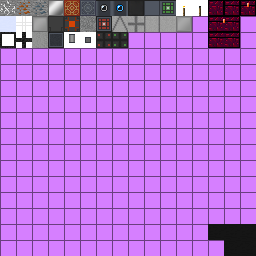
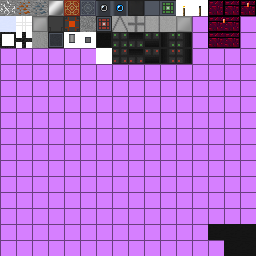
Retextured Air Locks.

Changed region(s): [[0.375, 0.125, 0.75, 0.25]]

diff --git a/src/minecraft/micdoodle8/mods/galacticraft/core/blocks/GCCoreBlockAirLockFrame.java b/src/minecraft/micdoodle8/mods/galacticraft/core/blocks/GCCoreBlockAirLockFrame.java
@@ -2,9 +2,12 @@ package micdoodle8.mods.galacticraft.core.blocks;
 
 import java.util.Random;
 
+import universalelectricity.core.vector.Vector3;
+
 import micdoodle8.mods.galacticraft.API.IConnectableToPipe;
 import micdoodle8.mods.galacticraft.core.tile.GCCoreTileEntityAirLock;
 import micdoodle8.mods.galacticraft.core.util.OxygenUtil;
+import net.minecraft.block.Block;
 import net.minecraft.block.material.Material;
 import net.minecraft.tileentity.TileEntity;
 import net.minecraft.world.IBlockAccess;
@@ -20,20 +23,171 @@ public class GCCoreBlockAirLockFrame extends GCCoreBlockAdvanced implements ICon
 		super(par1, par2, Material.rock);
 	}
 
-	@Override
-    @SideOnly(Side.CLIENT)
-    public int getBlockTexture(IBlockAccess par1IBlockAccess, int par2, int par3, int par4, int par5)
-    {
-		par1IBlockAccess.getBlockTileEntity(par2, par3, par4);
+//	@Override
+//    @SideOnly(Side.CLIENT)
+//    public int getBlockTexture(IBlockAccess par1IBlockAccess, int par2, int par3, int par4, int par5)
+//    {
+//		par1IBlockAccess.getBlockTileEntity(par2, par3, par4);
+//
+//		if (par1IBlockAccess.getBlockId(par2 - 1, par3, par4) == GCCoreBlocks.airLockSeal.blockID || par1IBlockAccess.getBlockId(par2 + 1, par3, par4) == GCCoreBlocks.airLockSeal.blockID || par1IBlockAccess.getBlockId(par2, par3 - 1, par4) == GCCoreBlocks.airLockSeal.blockID || par1IBlockAccess.getBlockId(par2, par3 + 1, par4) == GCCoreBlocks.airLockSeal.blockID || par1IBlockAccess.getBlockId(par2, par3, par4 - 1) == GCCoreBlocks.airLockSeal.blockID || par1IBlockAccess.getBlockId(par2, par3, par4 + 1) == GCCoreBlocks.airLockSeal.blockID)
+//		{
+//			return 39;
+//		}
+//		else
+//		{
+//			return 38;
+//		}
+//    }
 
-		if (par1IBlockAccess.getBlockId(par2 - 1, par3, par4) == GCCoreBlocks.airLockSeal.blockID || par1IBlockAccess.getBlockId(par2 + 1, par3, par4) == GCCoreBlocks.airLockSeal.blockID || par1IBlockAccess.getBlockId(par2, par3 - 1, par4) == GCCoreBlocks.airLockSeal.blockID || par1IBlockAccess.getBlockId(par2, par3 + 1, par4) == GCCoreBlocks.airLockSeal.blockID || par1IBlockAccess.getBlockId(par2, par3, par4 - 1) == GCCoreBlocks.airLockSeal.blockID || par1IBlockAccess.getBlockId(par2, par3, par4 + 1) == GCCoreBlocks.airLockSeal.blockID)
+    public int getBlockTexture(IBlockAccess par1IBlockAccess, int par2, int par3, int par4, int side)
+    {
+    	for(ForgeDirection orientation : ForgeDirection.values())
 		{
-			return 39;
+			if(orientation != ForgeDirection.UNKNOWN)
+			{
+				Vector3 vector = new Vector3(par2, par3, par4);
+				Vector3 blockVec = vector.clone().modifyPositionFromSide(orientation);
+				Block connection = Block.blocksList[blockVec.getBlockID(par1IBlockAccess)];
+			
+				if (connection != null && connection.equals(GCCoreBlocks.airLockSeal))
+				{
+					if (orientation.offsetY == -1)
+					{
+						if (side == 0)
+						{
+							return this.blockIndexInTexture + 1;
+						}
+						else if (side == 1)
+						{
+							return this.blockIndexInTexture;
+						}
+						else
+						{
+							return this.blockIndexInTexture + 2;
+						}
+					}
+					else if (orientation.offsetY == 1)
+					{
+						if (side == 0)
+						{
+							return this.blockIndexInTexture;
+						}
+						else if (side == 1)
+						{
+							return this.blockIndexInTexture + 1;
+						}
+						else
+						{
+							return this.blockIndexInTexture + 3;
+						}
+					}
+					else if (orientation.ordinal() == side)
+					{
+						if (side == 0)
+						{
+							return this.blockIndexInTexture;
+						}
+						else if (side == 1)
+						{
+							return this.blockIndexInTexture + 1;
+						}
+						else
+						{
+							return this.blockIndexInTexture + 3;
+						}
+					}
+					else if (orientation.getOpposite().ordinal() == side)
+					{
+						return this.blockIndexInTexture;
+					}
+
+					blockVec = vector.clone().add(new Vector3(orientation.offsetX, orientation.offsetY, orientation.offsetZ));
+					connection = Block.blocksList[blockVec.getBlockID(par1IBlockAccess)];
+					
+					if (connection != null && connection.equals(GCCoreBlocks.airLockSeal))
+					{
+						if (orientation.offsetX == 1)
+						{
+							if (side == 0)
+							{
+								return this.blockIndexInTexture + 4;
+							}
+							else if (side == 1)
+							{
+								return this.blockIndexInTexture + 4;
+							}
+							else if (side == 3)
+							{
+								return this.blockIndexInTexture + 4;
+							}
+							else if (side == 2)
+							{
+								return this.blockIndexInTexture + 5;
+							}
+						}
+						else if (orientation.offsetX == -1)
+						{
+							if (side == 0)
+							{
+								return this.blockIndexInTexture + 5;
+							}
+							else if (side == 1)
+							{
+								return this.blockIndexInTexture + 5;
+							}
+							else if (side == 3)
+							{
+								return this.blockIndexInTexture + 5;
+							}
+							else if (side == 2)
+							{
+								return this.blockIndexInTexture + 4;
+							}
+						}
+						else if (orientation.offsetZ == 1)
+						{
+							if (side == 0)
+							{
+								return this.blockIndexInTexture + 2;
+							}
+							else if (side == 1)
+							{
+								return this.blockIndexInTexture + 2;
+							}
+							else if (side == 4)
+							{
+								return this.blockIndexInTexture + 4;
+							}
+							else if (side == 5)
+							{
+								return this.blockIndexInTexture + 5;
+							}
+						}
+						else if (orientation.offsetZ == -1)
+						{
+							if (side == 0)
+							{
+								return this.blockIndexInTexture + 3;
+							}
+							else if (side == 1)
+							{
+								return this.blockIndexInTexture + 3;
+							}
+							else if (side == 4)
+							{
+								return this.blockIndexInTexture + 5;
+							}
+							else if (side == 5)
+							{
+								return this.blockIndexInTexture + 4;
+							}
+						}
+					}
+				}
+			}
 		}
-		else
-		{
-			return 38;
-		}
+    	
+    	return this.blockIndexInTexture;
     }
 
 	@Override

diff --git a/src/minecraft/micdoodle8/mods/galacticraft/core/blocks/GCCoreBlockAirLockWall.java b/src/minecraft/micdoodle8/mods/galacticraft/core/blocks/GCCoreBlockAirLockWall.java
@@ -3,11 +3,14 @@ package micdoodle8.mods.galacticraft.core.blocks;
 import java.util.Random;
 
 import micdoodle8.mods.galacticraft.core.tile.GCCoreTileEntityAirLock;
+import net.minecraft.block.Block;
 import net.minecraft.block.BlockBreakable;
 import net.minecraft.block.material.Material;
 import net.minecraft.tileentity.TileEntity;
 import net.minecraft.world.IBlockAccess;
 import net.minecraft.world.World;
+import net.minecraftforge.common.ForgeDirection;
+import universalelectricity.core.vector.Vector3;
 import cpw.mods.fml.relauncher.Side;
 import cpw.mods.fml.relauncher.SideOnly;
 
